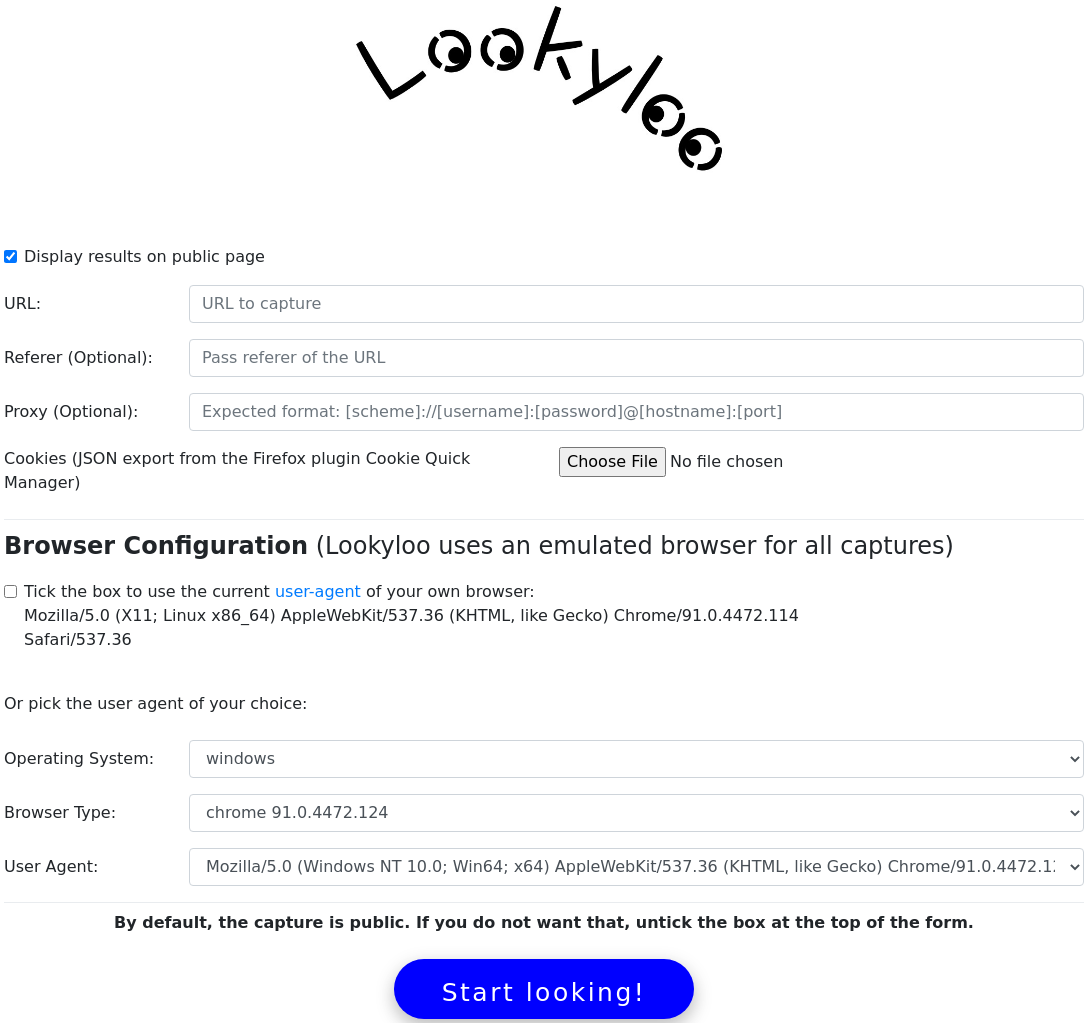
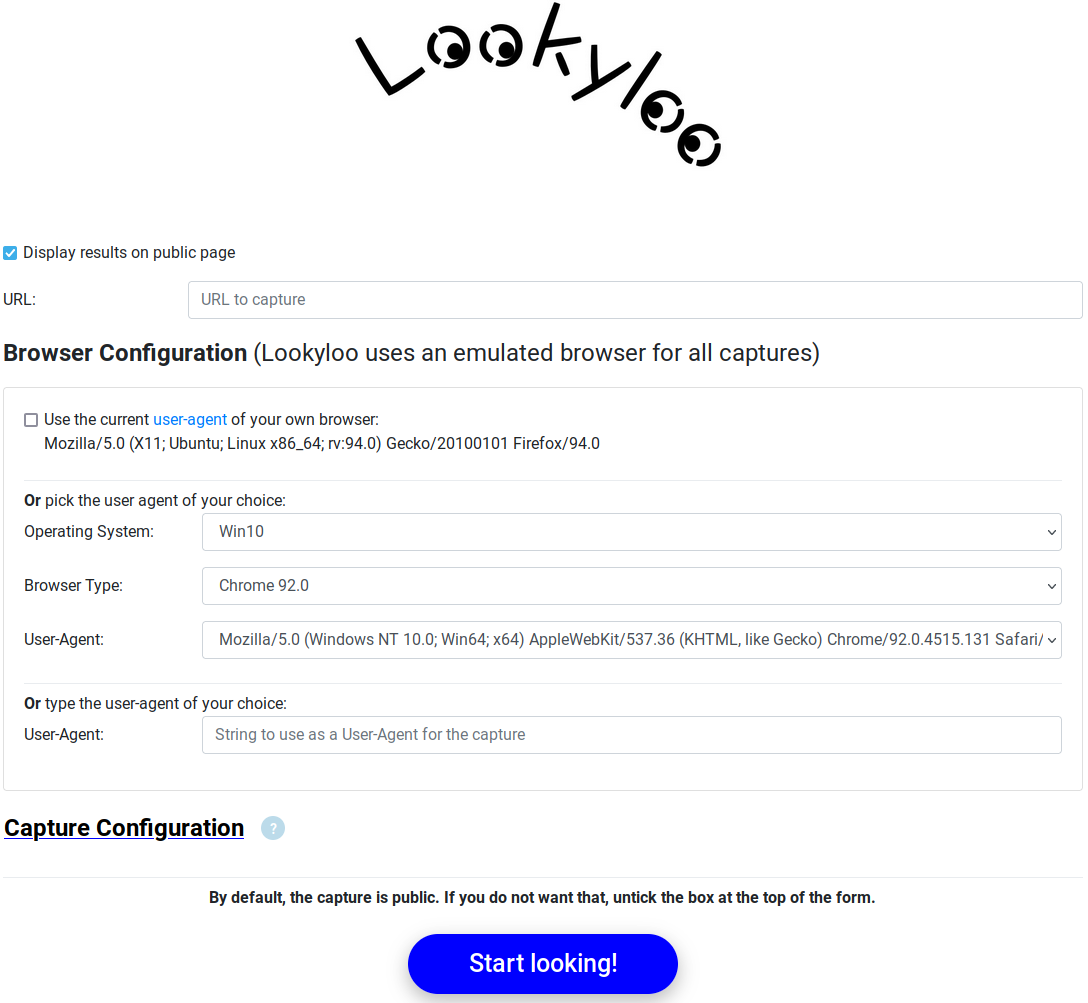
chg: Bump website

diff --git a/docs/docs/main/usage.html b/docs/docs/main/usage.html
@@ -203,18 +203,18 @@
 <p>Before you start using lookyloo, you should be familiar with a few <a href="concepts.html" class="page">concepts</a>,
 otherwise it won&#8217;t make much sense.</p>
 </div>
-</div>
-</div>
-<div class="sect1">
-<h2 id="_how_to_use_lookyloo"><a class="anchor" href="#_how_to_use_lookyloo"></a>How to use Lookyloo</h2>
-<div class="sectionbody">
 <div class="paragraph">
-<p>To learn more about using Lookyloo read through our documentation.</p>
+<p>We strongly recommend to setup and use your own Lookyloo instance, especially if you&#8217;re using it a lot
+or are submitting URLs you&#8217;d rather not have publicly available to anyone using the demo instance.</p>
+</div>
+<div class="paragraph">
+<p>If you&#8217;re fine with that, and just want to give it a try, you can start a Lookyloo capture navigating
+to our <a href="https://lookyloo.circl.lu/">demo instance</a>. On the loaded page click <strong>Start a new capture</strong>.</p>
 </div>
 </div>
 </div>
 <div class="sect1">
-<h2 id="_capture_a_website"><a class="anchor" href="#_capture_a_website"></a>Capture a website</h2>
+<h2 id="_start_a_new_capture"><a class="anchor" href="#_start_a_new_capture"></a>Start a New Capture</h2>
 <div class="sectionbody">
 <div class="paragraph">
 <p>This is the entry point when you want to investigate a website.</p>
@@ -247,9 +247,62 @@ index page of the domain to capture:</p>
 </li>
 </ul>
 </div>
+<div class="paragraph">
+<p>The other fields can be left blank and the default parameters for the instance will be used.</p>
+</div>
 </div>
 <div class="sect2">
-<h3 id="_referer"><a class="anchor" href="#_referer"></a>Referer</h3>
+<h3 id="_browser_configuration"><a class="anchor" href="#_browser_configuration"></a>Browser Configuration</h3>
+<div class="paragraph">
+<p>Lookyloo will <strong>always</strong> use an emulated browser (<a href="https://splash.readthedocs.io/en/stable/">splash</a>),
+but you can pass it parameters, such as the user agent.</p>
+</div>
+<div class="paragraph">
+<p>The user agents listed on the page can come from two sources:</p>
+</div>
+<div class="olist arabic">
+<ol class="arabic">
+<li>
+<p>(Default on a fresh instance) the most recent <a href="https://github.com/Lookyloo/lookyloo/tree/main/user_agents">pre-packaged</a> file.</p>
+</li>
+<li>
+<p>(Default on the demo instance) dynamically based on the user-agents seen by the web interface the day before (if it is <a href="https://www.lookyloo.eu/docs/main/lookyloo-configuration.html#_optional_features">configured this way</a>).</p>
+</li>
+</ol>
+</div>
+<div class="paragraph">
+<p>In either case, the most frequently used user-agent will be selected by default,
+it is the one in the last dropdown menu when you load the page.</p>
+</div>
+<div class="paragraph">
+<p>If you want to use the user-agent of a specific browser on a specific operating system, you can pick one in the lists.</p>
+</div>
+<div class="paragraph">
+<p><strong>Or</strong> you pass the user-agent of your own browser by ticking the box.</p>
+</div>
+<div class="paragraph">
+<p><strong>Note</strong>: If your browser has a very special user-agent, it may leak information about you.</p>
+</div>
+<div class="paragraph">
+<p><strong>Or</strong> you can use the free-text field to pass the string you want as a user agent.</p>
+</div>
+<div class="paragraph">
+<p><strong>Note</strong>: The capture may fail because the websites refuses the User-Agent.</p>
+</div>
+</div>
+<div class="sect2">
+<h3 id="_capture_configuration"><a class="anchor" href="#_capture_configuration"></a>Capture Configuration</h3>
+<div class="paragraph">
+<p>This section will allow you to pass more advanced parameters to the capture, please only use it if you know
+what you&#8217;re doing, especially if you&#8217;re using the demo interface, as some of them may contain private information.</p>
+</div>
+<div class="imageblock">
+<div class="content">
+<img src="_images/capture-advanced.png" alt="capture advanced">
+</div>
+</div>
+<div class="sect3">
+<h4 id="_referer"><a class="anchor" href="#_referer"></a>Referer</h4>
 <div class="paragraph">
 <p>The <a href="https://en.wikipedia.org/wiki/HTTP_referer">referer</a> is optional but it must be a full URL if you want to use it.</p>
 </div>
@@ -257,11 +310,21 @@ index page of the domain to capture:</p>
 <p><strong>Usecase</strong>: some websites block requests if they&#8217;re not initiated by an internal URL. If that&#8217;s the case, pass the required URL in the referer field.</p>
 </div>
 <div class="paragraph">
-<p><strong>Note</strong>: It may not be enough and the wensite may also require a cookie. If it is the case, see below.</p>
+<p><strong>Note</strong>: It may not be enough and the website may also require a cookie. If it is the case, see below.</p>
 </div>
 </div>
-<div class="sect2">
-<h3 id="_proxy"><a class="anchor" href="#_proxy"></a>Proxy</h3>
+<div class="sect3">
+<h4 id="_other_http_headers"><a class="anchor" href="#_other_http_headers"></a>Other HTTP Headers</h4>
+<div class="paragraph">
+<p>This is a free text filed where you can pass a list of <a href="https://developer.mozilla.org/en-US/docs/Web/HTTP/Headers">HTTP headers</a>
+to the capture. They must be in the following format: <code>&lt;HEADER_NAME&gt;: &lt;VALUE&gt;</code>, and one per line. Anything else will be ignored.</p>
+</div>
+<div class="paragraph">
+<p><strong>Usecase</strong>: Some websites will redirect you to a specific URL if the <code>Accept-Language</code> header is set by your browser.</p>
+</div>
+</div>
+<div class="sect3">
+<h4 id="_proxy"><a class="anchor" href="#_proxy"></a>Proxy</h4>
 <div class="paragraph">
 <p>The <a href="https://en.wikipedia.org/wiki/Proxy_server">proxy</a> is optional but it must follow the format
 provided in the field if you want to use it.</p>
@@ -282,39 +345,22 @@ have a notification from tor telling you it is a socks5 proxy and not an http pr
 If you don&#8217;t have that, something is incorrect with your tor configuration .</p>
 </div>
 </div>
-<div class="sect2">
-<h3 id="_cookies"><a class="anchor" href="#_cookies"></a>Cookies</h3>
+<div class="sect3">
+<h4 id="_cookies"><a class="anchor" href="#_cookies"></a>Cookies</h4>
 <div class="paragraph">
 <p>It will be empty by default, but please refer to the related documentation in order to
 initiate a new capture with <a href="capture-cookies.html" class="page">a pre-refined cookie</a>.</p>
 </div>
 </div>
-<div class="sect2">
-<h3 id="_browser_configuration"><a class="anchor" href="#_browser_configuration"></a>Browser configuration</h3>
-<div class="paragraph">
-<p>By default, lookyloo passes a relatively common user-agent when it captures a page.
-You can change it by picking the type of operating system and the browser type in the dropdown boxes.
-The user-agent used in the one in the last dropdown menu (this one will be used by default).</p>
-</div>
-<div class="paragraph">
-<p>You can also pass the user-agent of your own browser by ticking the box.</p>
-</div>
-<div class="paragraph">
-<p><strong>Note</strong>: If your browser has a very special user-agent, it may leak information about you.</p>
-</div>
-<div class="paragraph">
-<p><strong>Note</strong>: If you want to pass a very specific user-agent for the capture, you can change your
-      user-agent in the parameters of your browser and reload the page.</p>
-</div>
-</div>
-<div class="sect2">
-<h3 id="_depth"><a class="anchor" href="#_depth"></a>Depth</h3>
+<div class="sect3">
+<h4 id="_depth"><a class="anchor" href="#_depth"></a>Depth</h4>
 <div class="paragraph">
 <p>It is not enabled by default because it will most of the time take too long on most websites. The default depth is 1 (capture only the given URL).</p>
 </div>
 <div class="paragraph">
 <p>If you enable the feature, a value of 2 will capture the given URL, extract all the links in the page, pick all the ones with the same hostname as the
 initial URL, and capture them. As you can imagine, it may get huge very fast.</p>
+</div>
 </div>
 </div>
 </div>

diff --git a/docs/docs/main/lookyloo-interface.html b/docs/docs/main/lookyloo-interface.html
@@ -198,22 +198,6 @@
 <article class="doc">
 <h1 class="page">Lookyloo Interface</h1>
 <div class="sect1">
-<h2 id="_start_a_new_capture"><a class="anchor" href="#_start_a_new_capture"></a>Start a New Capture</h2>
-<div class="sectionbody">
-<div class="paragraph">
-<p>You can start a Lookyloo capture navigating to our website instance. Enter <code><a href="https://lookyloo.circl.lu/" class="bare">https://lookyloo.circl.lu/</a></code> in a browser. On the loaded page click <strong>Start a new capture</strong>.</p>
-</div>
-<div class="imageblock">
-<div class="content">
-<img src="_images/capture.png" alt="capture">
-</div>
-</div>
-<div class="paragraph">
-<p>Enter the the required fields to start a capture.</p>
-</div>
-</div>
-</div>
-<div class="sect1">
 <h2 id="_capture_visualization"><a class="anchor" href="#_capture_visualization"></a>Capture Visualization</h2>
 <div class="sectionbody">
 <div class="paragraph">

diff --git a/docs/docs/main/capture-cookies.html b/docs/docs/main/capture-cookies.html
@@ -238,6 +238,25 @@
 </div>
 </div>
 </div>
+<div class="sect1">
+<h2 id="_manually_pass_cookies"><a class="anchor" href="#_manually_pass_cookies"></a>Manually pass cookies</h2>
+<div class="sectionbody">
+<div class="paragraph">
+<p>If the two options above aren&#8217;t working for you, the expected input is a json document in the format below.
+The keys are explained in the <a href="https://developer.mozilla.org/en-US/docs/Web/HTTP/Headers/Set-Cookie">MDN Web Docs</a>.</p>
+</div>
+<div class="literalblock">
+<div class="content">
+<pre>[
+  {
+    'key': 'value',
+    ...
+  }
+]</pre>
+</div>
+</div>
+</div>
+</div>
 </article>
 <aside class="toc sidebar" data-title="Contents" data-levels="2">
   <div class="toc-menu"></div>
